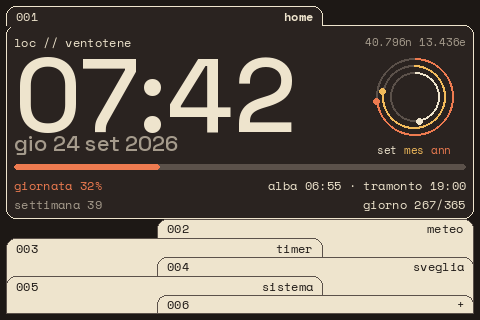
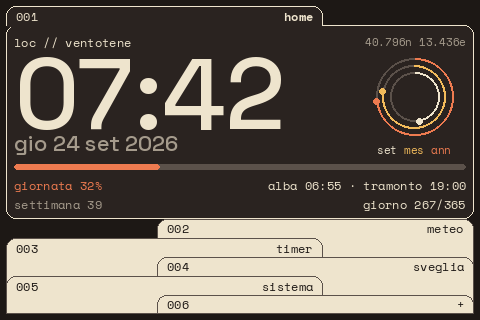
Alza l'ora della home perché non tocchi la data
A 480×320 fra il fondo delle cifre e il giorno restavano 3 px: le cifre
tonde scendono sotto la linea di base e la data, ancorata su "ld", sale
sopra la sua riga. Il riquadro dell'ora perde mezzo passo di griglia in
basso: la base sale di 3 px e lo spazio torna a 6, pari a gap. Le altre
pagine restano identiche (impronte SHA-1 invariate).

- dash/render/pages/home.py: clock_box alto band.h - gap // 2.
- docs/img/01-home.png e animazione.gif rigenerate.
- Versione 0.5.1 (dash/__init__.py, README, CLAUDE.md, CHANGELOG).
- CLAUDE.md: sviluppo solo tramite Claude Code e GitHub, unione sempre
  in main.

Claude-Session: https://claude.ai/code/session_01LGXyo8qxw7FA9jtXYM6Ls3

Changed region(s): [[0.1875, 0.1562, 0.625, 0.4375], [0.0312, 0.1875, 0.1875, 0.4375], [0.0625, 0.1875, 0.0938, 0.25]]

diff --git a/dash/render/pages/home.py b/dash/render/pages/home.py
@@ -34,7 +34,10 @@ def draw(cv: Canvas, b: Box, app: App, now: datetime) -> None:
     # in mezzo: ora a sinistra, anelli a destra (alti quanto ora + data)
     band = Box(b.x, b.y + lab_h + gap, b.w, date_top - gap - (b.y + lab_h + gap))
     side = min(band.h + gap + date_h, round(b.w * 0.30))
-    clock_box = Box(band.x, band.y, band.w - side - 2 * gap, band.h)
+    # Mezzo passo di griglia in meno sotto l'ora: le cifre tonde scendono un filo sotto la linea
+    # di base e la data (ancora "ld") sale un filo sopra la sua riga, e con il riquadro pieno
+    # l'ora toccava il giorno (3 px d'aria a 480×320 invece del passo `gap`).
+    clock_box = Box(band.x, band.y, band.w - side - 2 * gap, band.h - gap // 2)
     ora = now.strftime("%H:%M")
     pos = (clock_box.x, clock_box.bottom)
     f = cv.big(clock_box, ora, "cream", pos=pos, anchor="ls", slot="clock.ora", ref="00:00")

diff --git a/dash/__init__.py b/dash/__init__.py
@@ -1,2 +1,2 @@
 """pi-dash: dashboard per Raspberry Pi con schermo SPI 3,5"."""
-__version__ = "0.5.0"
+__version__ = "0.5.1"

diff --git a/CLAUDE.md b/CLAUDE.md
@@ -1,6 +1,6 @@
 # pi-dash — CLAUDE.md
 
-Versione 0.5.0 · 2026-09-27
+Versione 0.5.1 · 2026-09-27
 
 ## 1. Scopo
 Dashboard da tavolo per Raspberry Pi 3 Model B con schermo SPI 3,5" 480×320 (ILI9486 + touch
@@ -85,6 +85,9 @@ tests/                 unittest
 - Testo sempre con `cv.text` (cache delle maschere): mai `ImageDraw.text` diretto nelle pagine.
 - Refactor del disegno: le immagini devono restare identiche. Confrontare le impronte SHA-1 delle
   pagine (più risoluzioni) e dei fotogrammi della GIF prima e dopo.
+- Sviluppo solo tramite Claude Code e GitHub, nessun file locale: lavorare su un ramo, aprire
+  una PR verso `main` e unirla in `main` appena i controlli sono verdi. Mai lasciare lavoro
+  fuori da `main`: il Pi si aggiorna solo da lì.
 - Commit: uno per intervento, messaggi in italiano all'imperativo.
 - Il Pi si aggiorna da `main`: ciò che arriva su `main` deve passare `python -m unittest`
   (altrimenti `aggiorna.sh` rifiuta l'aggiornamento e torna indietro).

diff --git a/CHANGELOG.md b/CHANGELOG.md
@@ -1,5 +1,11 @@
 # Changelog
 
+## 0.5.1 — 2026-09-27
+- Home: l'ora sale di mezzo passo di griglia e non tocca più la data. A 480×320 fra le cifre
+  e il giorno restavano 3 px (le cifre tonde scendono sotto la linea di base, la data sale
+  sopra la sua riga); ora sono 6, il passo `gap`. Cifre 3 px più basse, resto invariato.
+- CLAUDE.md: lo sviluppo passa solo da Claude Code e GitHub, con unione sempre in `main`.
+
 ## 0.5.0 — 2026-09-27
 - Codice riorganizzato, a parità di immagine (95 impronte identiche: pagine a quattro
   risoluzioni, compresa quella ruotata, e ogni fotogramma della GIF):

diff --git a/README.md b/README.md
@@ -1,6 +1,6 @@
 # pi-dash
 
-Versione 0.5.0 · 2026-09-27
+Versione 0.5.1 · 2026-09-27
 
 Dashboard da tavolo per Raspberry Pi 3 Model B con schermo SPI 3,5" touch: orologio, meteo e vento
 in nodi, timer di partenza regata, sveglia e statistiche del sistema.
